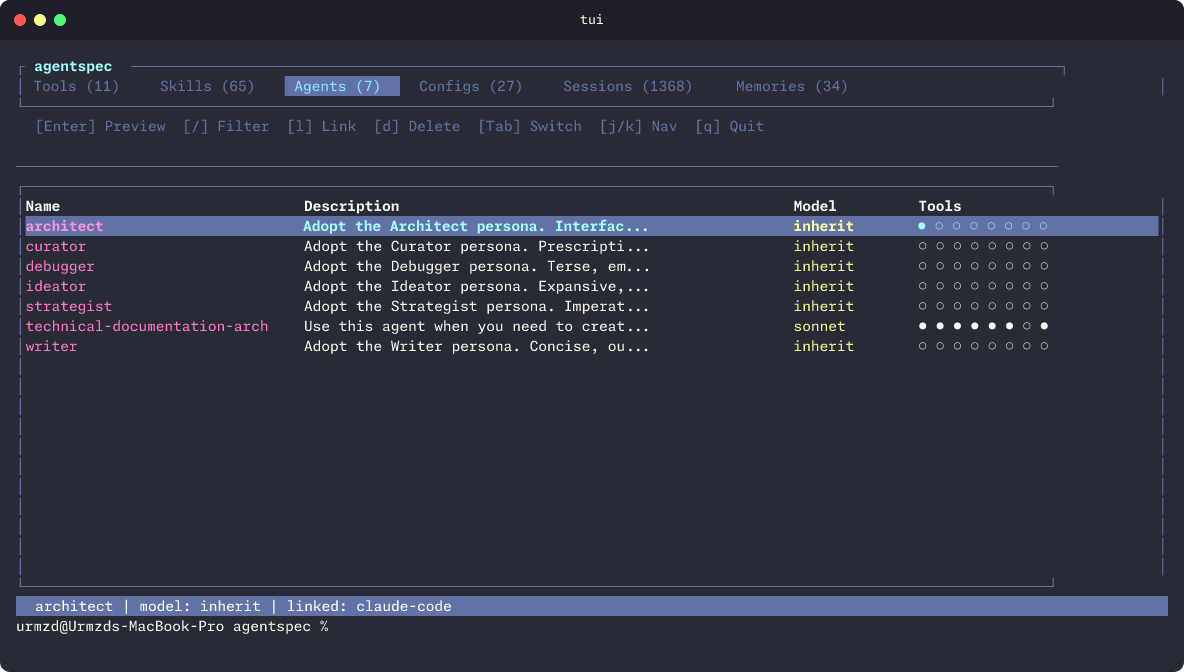
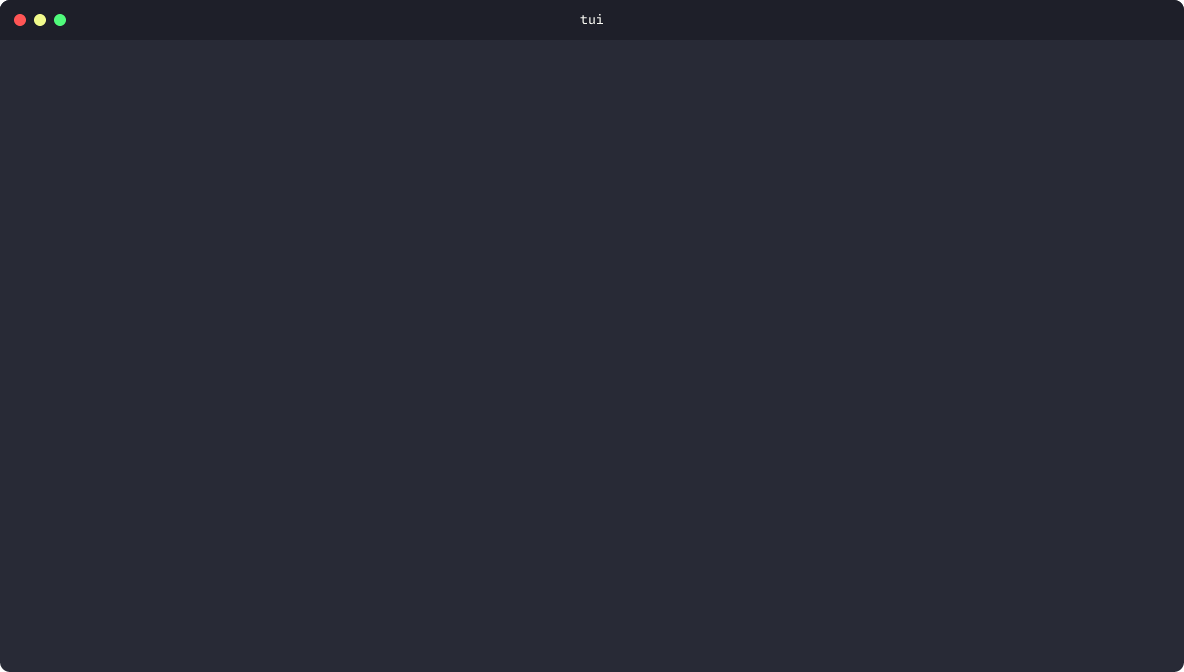
docs: update AGENTS.md and showcase assets for merged-tabs TUI
Update AGENTS.md ops table and add linking mechanism docs.
Replace tui.gif with tui-demo.gif and add animated tab-cycling scene to teasr.toml.

diff --git a/AGENTS.md b/AGENTS.md
@@ -13,7 +13,7 @@ Single binary, async runtime (tokio). Key layers:
 | IR | `src/ir.rs` | Canonical `Resource` type -- all vendor formats convert to/from this |
 | Adapters | `src/adapters/` | Vendor-specific parsers/emitters (agentskills, claude, gemini) |
 | Tools | `src/tools/mod.rs` | `CodingTool` trait + macro-defined impls for 11 AI tools |
-| Ops | `src/ops/` | CLI operations (install, link, list, validate, search, create, remove) |
+| Ops | `src/ops/` | CLI operations (manage, link, sync, discover, verify, prune, project_sync) |
 | TUI | `src/tui/` | ratatui screens (skill list, agent list, tool list, link picker) |
 | CLI | `src/cli.rs` | clap derive command definitions |
 | Lock | `src/lockfile.rs` | `.skill-lock.json` v3 serde (backwards compatible) |
@@ -23,8 +23,26 @@ Single binary, async runtime (tokio). Key layers:
 - `src/ir.rs` -- the canonical IR that all adapters target
 - `src/adapters/mod.rs` -- `Adapter` trait definition
 - `src/tools/mod.rs` -- `CodingTool` trait + `define_tool!` macro
-- `src/ops/link.rs` -- symlink creation with relative path computation
+- `src/ops/link.rs` -- symlink creation, relative path computation, link reconciliation
+- `src/ops/sync.rs` -- full pipeline (discover, adopt, reconcile, link, verify)
+- `src/ops/manage.rs` -- `manage add` source resolution (local path, git URL, owner/repo)
+- `src/inventory.rs` -- `Config` struct, `TrackedResource`, SHA-256 hashing
 - `src/tui/app.rs` -- TUI state machine
+
+## Linking Mechanism
+
+Resources live in the shared store (`~/.agents/skills/`, `~/.agents/agents/`). Tools get relative symlinks pointing into the shared store.
+
+**`manage add <source> --all-tools`** resolves the source (local path, `owner/repo`, or git URL with optional `#branch@subpath`), copies to shared store, then creates symlinks in every installed tool's directory. Existing names are skipped (first-installed wins).
+
+**`sync`** runs a 3-phase pipeline:
+1. **Reconcile** -- adopts existing symlinks on disk that aren't tracked in config (handles links created by older versions or external tools)
+2. **Link** -- creates missing symlinks for managed resources not yet present in tool directories
+3. **Verify** -- checks SHA-256 hashes against stored values to detect external modifications
+
+**Relative symlinks** are computed via `pathdiff::diff_paths()` so they survive home directory moves. Example: `~/.claude/skills/my-skill` -> `../../.agents/skills/my-skill`.
+
+**Copy fallback** via `--copy` flag for filesystems that don't support symlinks.
 
 ## Commands
 
